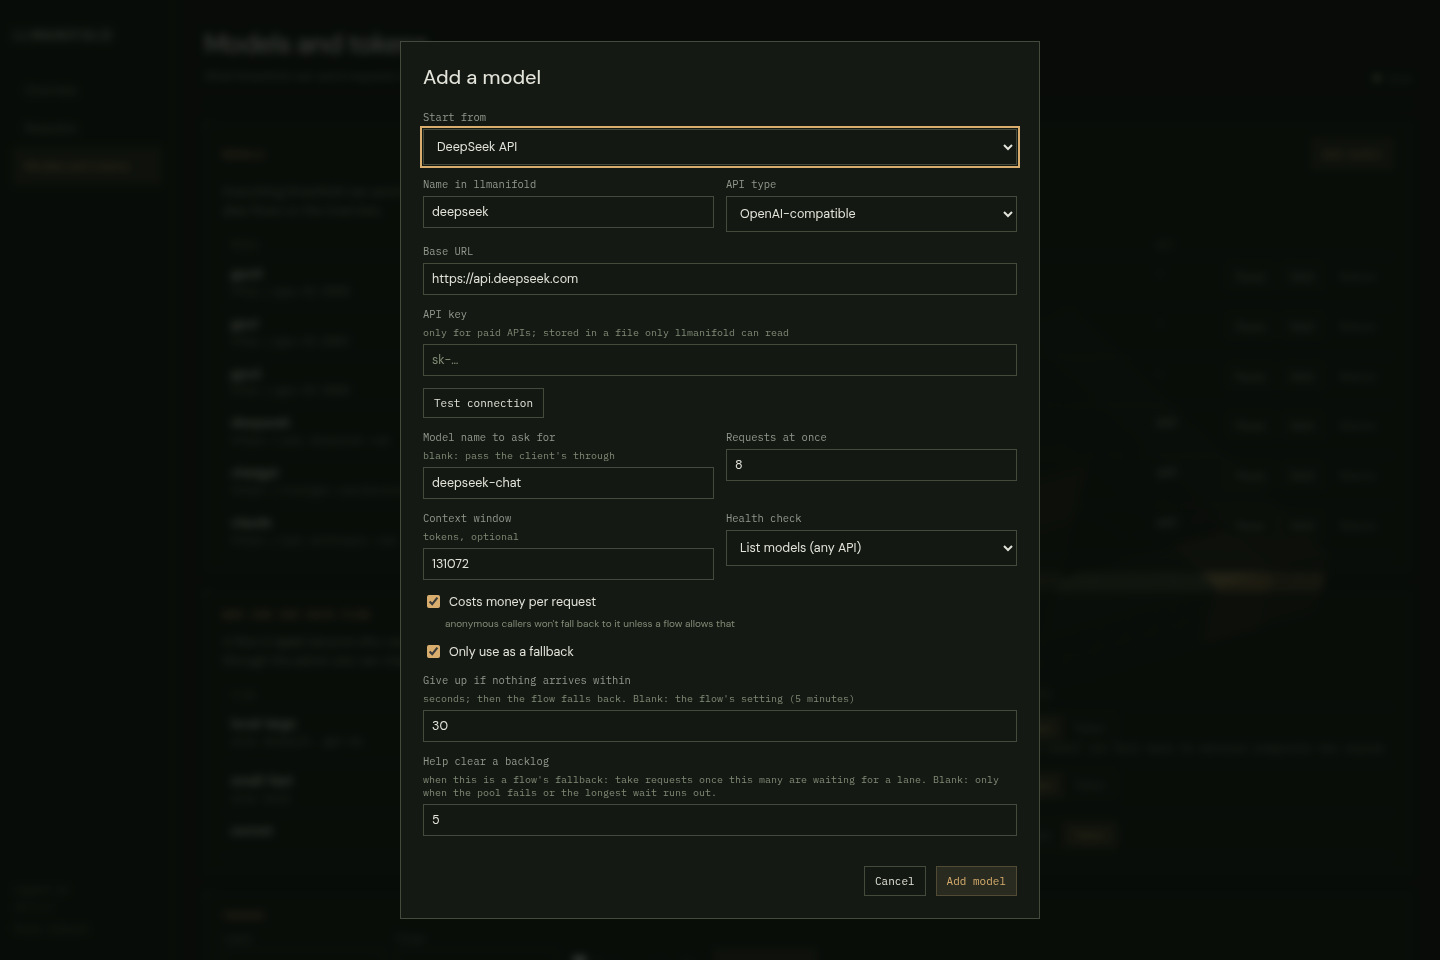
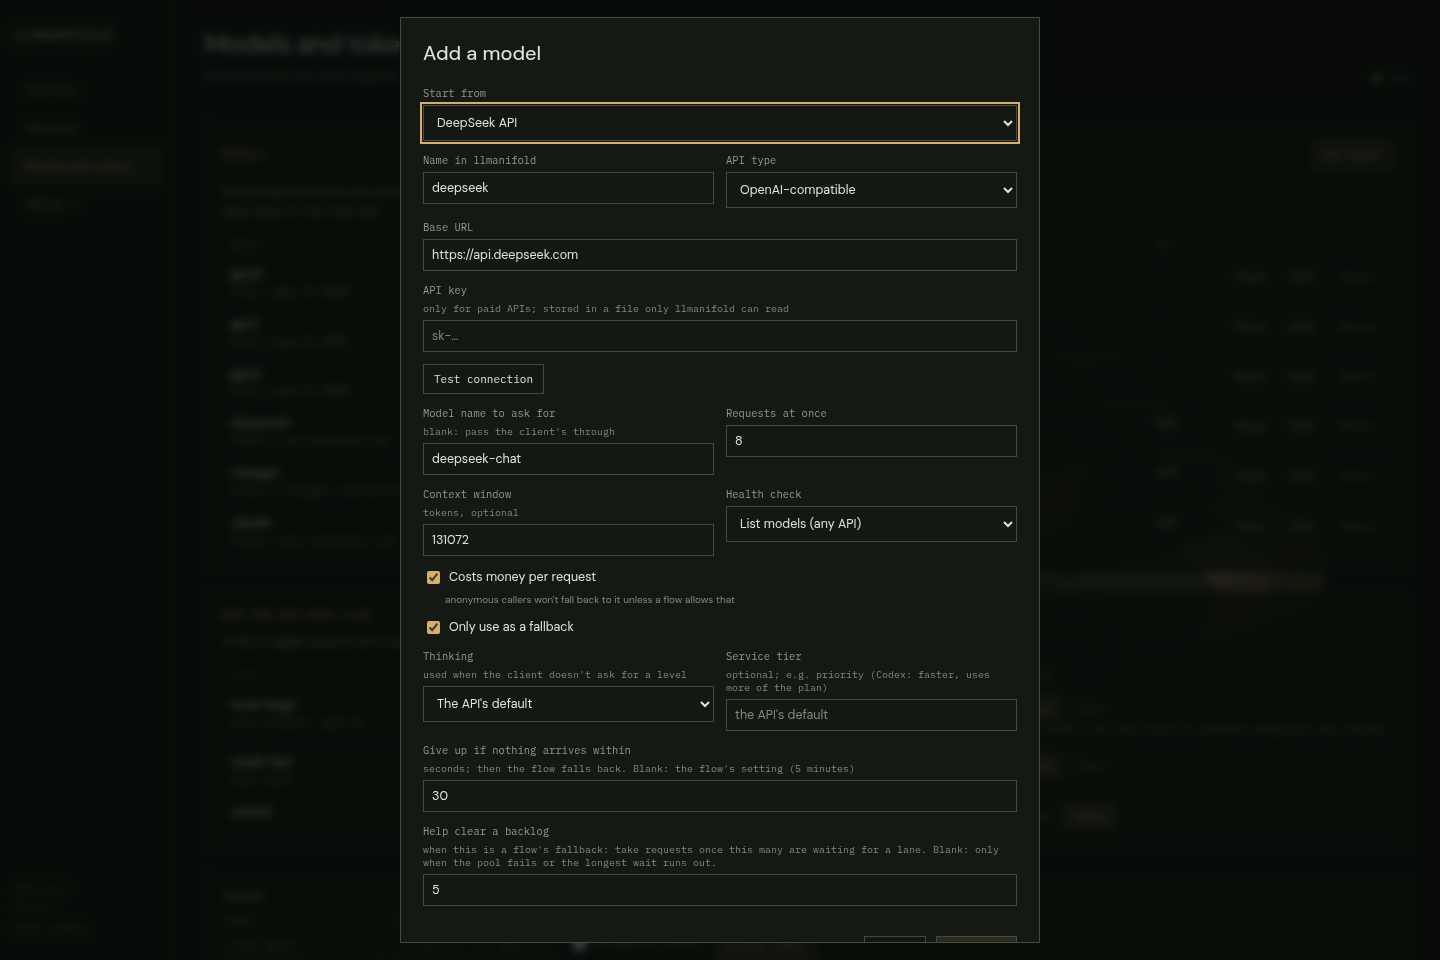
README: fresh screenshots, flow settings, lane labels, per-endpoint defaults
Regenerated every dashboard image (lanes now read "engine (model)") and
added one of the flow Settings dialog mid-rename. The README covers
renaming flows, aliases and the default flow, reasoning_effort and
service_tier, and no longer mentions signing in. The screenshot script
drops the removed local_humans setting and can write outside the repo.

Claude-Session: https://claude.ai/code/session_0174m5TJaHNEgWNHQ5iaVMt8

diff --git a/docs/screenshots/make_screenshots.py b/docs/screenshots/make_screenshots.py
@@ -148,7 +148,7 @@ async def build(tmp: Path):
             "small-fast": {"aliases": ["bulk"], "pool": ["gpu2"], "auth": "open"},
             "sonnet": {"pool": ["claude"], "auth": "token"},
         },
-        "admin": {"allow_from": ["127.0.0.0/8"], "local_humans": True},
+        "admin": {"allow_from": ["127.0.0.0/8"]},
     }
     (tmp / "data").mkdir()
     path = tmp / "config.yaml"
@@ -238,6 +238,14 @@ async def screenshots(browser, admin: str, out: Path) -> None:
     await page.set_viewport_size({"width": 1440, "height": 960})
     await page.wait_for_timeout(300)
     await shot(page, "add-model.png")
+    await page.keyboard.press("Escape")
+
+    await page.click('a[data-view="overview"]')
+    await page.click('button[data-flow-settings="local-large"]')
+    await page.wait_for_selector("#settings-dialog[open]")
+    await page.fill('#settings-form input[name="name"]', "local-xl")     # mid-rename, so the keep-old-name option shows
+    await page.wait_for_timeout(400)
+    await shot(page, "flow-settings.png")
     await ctx.close()
 
     ctx, page = await page_at(390, 800, scale=2)
@@ -334,7 +342,7 @@ async def main() -> None:
         store.close()
         shutil.rmtree(tmp, ignore_errors=True)
     for f in sorted(out.iterdir()):
-        print(f"{f.relative_to(ROOT)}  {f.stat().st_size // 1024} KB")
+        print(f"{f.resolve().relative_to(ROOT) if f.resolve().is_relative_to(ROOT) else f}  {f.stat().st_size // 1024} KB")
 
 
 if __name__ == "__main__":

diff --git a/README.md b/README.md
@@ -128,25 +128,42 @@ either kind of upstream.
   can be limited to N lanes per model.
 - **Tokens per model.** A model is `open` or needs a token. Tokens are created,
   scoped and revoked in the admin site.
+- **Per-endpoint request defaults.** `reasoning_effort` sets an endpoint's
+  thinking level when the client doesn't name one (`none` through `max`), and
+  `service_tier` is passed upstream (e.g. `priority` on the Codex backend).
 - **Dashboard.** Live alias flows and lanes, charts of traffic, speed and
   time to first token (SQLite history, 30 days by default), and token
-  management, on a separate admin listener. From the admin site you can add, edit, pause and remove models (including paid APIs, with a
-  connection test) and build alias flows (rename them, give them aliases, pick the default); changes are written back to the YAML
-  file with comments kept, and API keys go to files only llmanifold can read.
-  Prometheus metrics at `/metrics`.
+  management, on a separate admin listener. From the admin site you can add,
+  edit, pause and remove models (including paid APIs, with a connection test)
+  and build alias flows: rename them, give them aliases, pick the default.
+  Changes are written back to the YAML file with comments kept, and API keys
+  go to files only llmanifold can read. Prometheus metrics at `/metrics`.
 - **Proxy-friendly.** Keepalives (SSE comments, or leading whitespace on JSON)
   stop proxies like Cloudflare from cutting long generations at ~100 s.
 
 ## The dashboard
 
 The admin listener serves a dashboard that shows what llmanifold is doing and
-lets a signed-in person change it. It is separate from the API listener, so you
-can keep it private.
+lets you change it. It is separate from the API listener, so you can keep it
+private (see [Admin access](#admin-access)).
 
 **Overview** draws each alias flow as a manifold: the name clients ask for on the
-left, a pipe to every lane that can serve it on the right. Busy pipes run amber,
-fallbacks are dashed, and anything waiting for a lane is listed underneath. Pause
-a model from here and it finishes what it has and takes nothing new.
+left, a pipe to every lane that can serve it on the right. Each lane is labelled
+with the engine and the model name it is asked for, as in `gpu0 (local-large)`;
+an engine with no `model` set is sent the name the client used. Busy pipes run
+amber, fallbacks are dashed, and anything waiting for a lane is listed
+underneath. Pause a model from here and it finishes what it has and takes
+nothing new.
+
+A flow's **Settings** rename it, change the other names it answers to, and make
+it the default flow (the one that gets requests naming no model, or a model
+llmanifold doesn't know). A rename moves everything with the flow: its place in
+the config, its open/token setting and the tokens scoped to it. The old name
+can stay on as an alias, so clients still using it keep working.
+
+<p align="center">
+  <img src="docs/img/flow-settings.png" alt="Flow settings dialog: name, aliases, default flow and queue limits, mid-rename" width="78%">
+</p>
 
 **Requests** charts traffic by the model that answered, output speed, and time to
 first token (typical and 95th percentile) over the last hour, six hours, day or
@@ -222,7 +239,8 @@ API keys come from `key_env` or `key_file`; avoid literal `key:` values.
 
 Set `default_model` to route requests that name no model, or one llmanifold
 doesn't know, instead of answering 404 (handy when replacing a single-model
-server whose clients send whatever name they were configured with).
+server whose clients send whatever name they were configured with). The
+"Default flow" checkbox in a flow's Settings sets it from the dashboard.
 
 ### Probes
 
